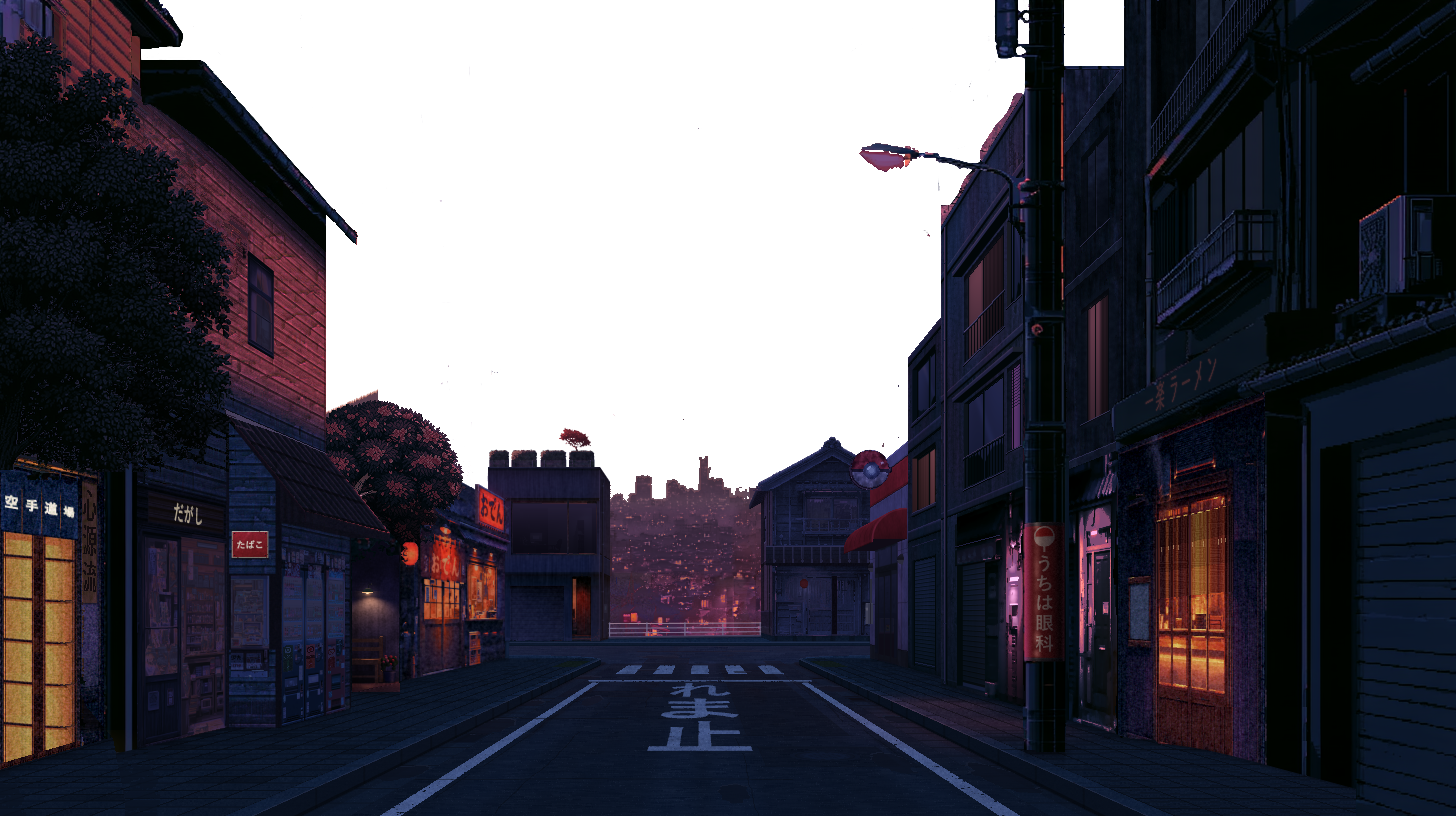
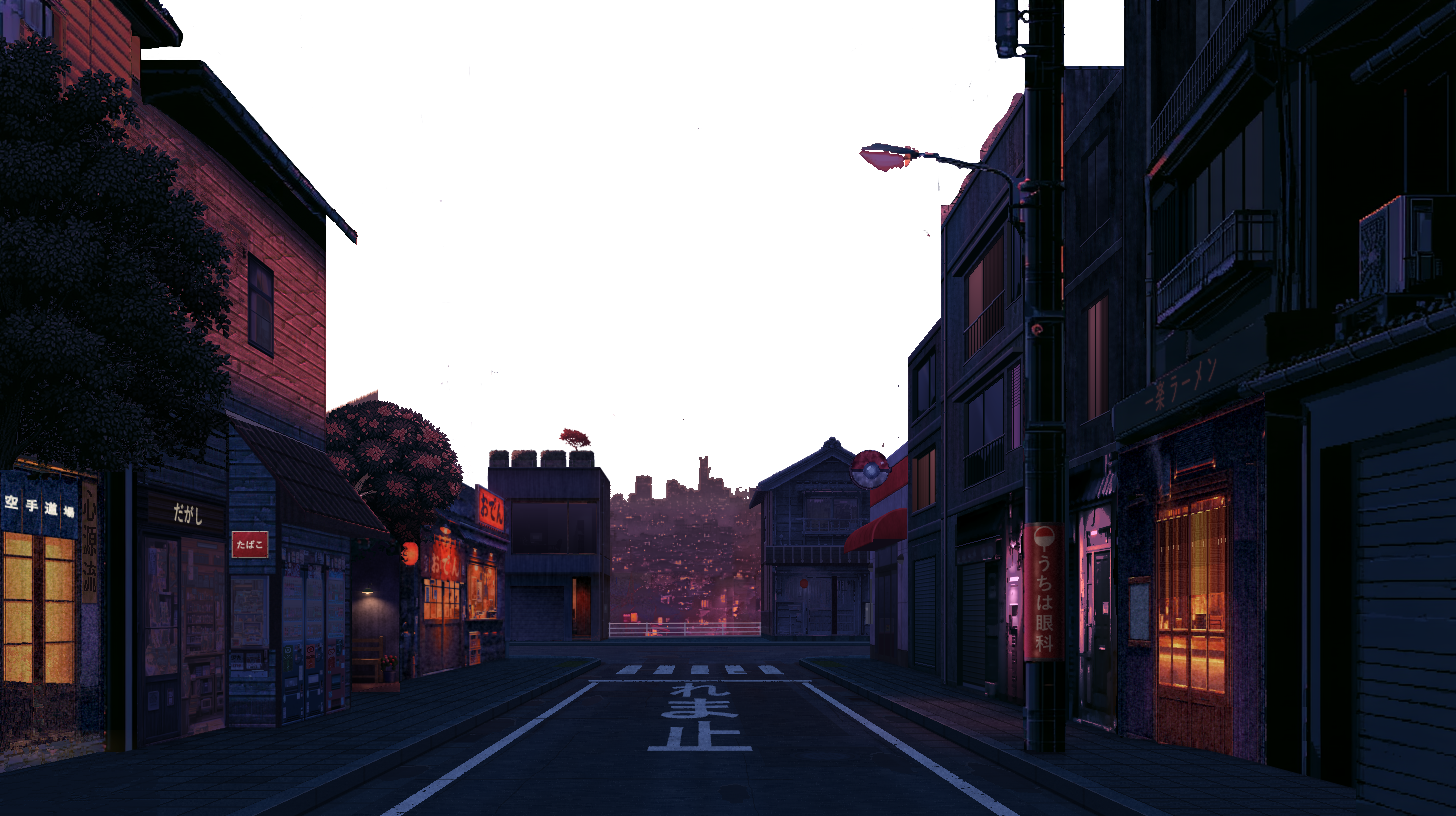
Dojo : seulement les feuilles de l'ancien buisson retirées, le reste tel que peint
Shoji refaits case par case le long de leurs traverses, qui se resserrent vers
la rue : bois et papier continus. Soubassement de pierre complété par
inpainting. Marche éclairée et trottoir recopiés plus loin dans la même rue, en
perspective vers le point de fuite du sol (646, 634) : joints longitudinaux sur
leurs lignes, joints transversaux à niveau. Leur lumière est accordée au
dégradé du trottoir autour. Le pied chaud de la porte reste tel que peint.

Changed region(s): [[0.0, 0.7047, 0.0927, 0.9498]]

diff --git a/tools/tree_bc.py b/tools/tree_bc.py
@@ -32,13 +32,15 @@ CROWN_ROWS = 700                                   # (the source's rows above th
 DEEP = (0, 50, 0.62)                                # its leaves further in: the crown again, moved (x, y), in shade
 BUSH_ROWS = 860                                    # (the source's rows below this: the bush at the trunk's foot, its wood left out)
 BUSHES = []                                        # (no bush: the pavement as clean as everywhere else)
-SHOJI_STEP, SILL = 42, 6                           # the shoji's rails, one under the other; their sill's height
-STILE = (35, 548)                                  # (the shoji's middle stile, dark wood: its left column, a clean row)
-BASE = lambda x: 733 + 0.29 * (126 - x)            # the front's foot on the pavement (to the vanishing point, as the pavement's lines)
+SHOJI_X1 = 78                                      # the shoji's right side; their rails (they close in toward the street), the
+RAILS = (lambda x: 554.6 + 0.085 * x, lambda x: 599.4 + 0.017 * x,         # last line their paper's foot
+         lambda x: 644.3 - 0.047 * x, lambda x: 681.5 + 0.03 * x)
+KERB_Y = lambda x: 816 - 0.38 * (x - 230)          # the pavement's kerb, its upper edge (below it the kerb stone)
+VPG = (646.0, 634.0)                               # the ground's vanishing point (the pavement's long joints run to it; its
+                                                   # cross joints are level)
+STEP = lambda x: VPG[1] + 100 * (VPG[0] - x) / 550  # the dojo's lit step, its upper edge (to the vanishing point)
+STEP_BOT = lambda x: VPG[1] + 118 * (VPG[0] - x) / 550   # and its lower edge, on the pavement
 FASCIA = lambda x: 455 + 0.23 * x                   # the dojo's top board, its upper edge (lit, under the crown)
-PAVE_X1, PAVE_SPLIT = 330, 778
-KERB = lambda y: 352 - (y - 770) * 2.75            # the pavement's kerb, its x along the bottom rows
-FOOT_SHADE, FOOT_W = 0.28, 10                    # the pavement's shade along a front's foot: how much, how wide
 VP = (669.0, 568.0)                                # the street's vanishing point (the side wall's planks run to it)
 OLD_CROWN = [(0, 70), (60, 72), (92, 98), (132, 108), (172, 148), (208, 198), (236, 248), (238, 312), (220, 362),
              (208, 410), (178, 440), (132, 462), (60, 472), (0, 472)]
@@ -103,6 +105,97 @@ def recolour(rgb, al, ref):
     cent, cols = np.array(cent), np.array(cols)
     out[al] = np.stack([np.interp(L2, cent, cols[:, ch]) for ch in range(3)], -1)
     return out
+
+
+def inpaint(layers, hole, allowed, guide, P=3, R=32):
+    """Fills hole in every layer, patch by patch (exemplar-based, Criminisi et al.): the fill front's pixel whose patch is
+    the most known and lies across the strongest structure first, from the patch of the painting (within R px, inside
+    allowed, wholly known at the start) that best matches its known pixels in guide; each filled pixel takes its source's
+    value in every layer."""
+    H, W = hole.shape; k = 2 * P + 1
+    E = P + 4 * R
+    pad = lambda a, v: np.pad(a, ((E, E), (E, E)) + ((0, 0),) * (a.ndim - 2), constant_values=v)
+    G = pad(guide.astype(float), 0); M = pad(hole.copy(), False); inside = pad(np.ones((H, W), bool), False)
+    ok = pad(allowed & ~hole, False)
+    srcc = ndi.uniform_filter((~ok).astype(float), size=k, mode='constant', cval=1) < 1e-6      # (sources: whole patches)
+    C = (~M).astype(float); src_y = np.full(M.shape, -1); src_x = np.full(M.shape, -1)
+    Lg = G[..., :3] @ [0.299, 0.587, 0.114]
+    while M.any():
+        front = M & ndi.binary_dilation(~M & inside)
+        if not front.any(): break
+        ys, xs = np.where(front)
+        conf = ndi.uniform_filter(C, size=k)[ys, xs]
+        Lf = np.where(M, ndi.uniform_filter(np.where(M, 0, Lg), 5) / np.maximum(ndi.uniform_filter((~M).astype(float), 5), 1e-3), Lg)
+        gx, gy = ndi.sobel(Lf, 1), ndi.sobel(Lf, 0); nx, ny = ndi.sobel(M.astype(float), 1), ndi.sobel(M.astype(float), 0)
+        nn = np.hypot(nx, ny) + 1e-6
+        data = np.abs(-gy[ys, xs] * nx[ys, xs] / nn[ys, xs] + gx[ys, xs] * ny[ys, xs] / nn[ys, xs]) / 255
+        i = int(np.argmax(conf * (data + 0.05))); py, px = ys[i], xs[i]
+        T = G[py - P:py + P + 1, px - P:px + P + 1]; Tk = ~M[py - P:py + P + 1, px - P:px + P + 1] & inside[py - P:py + P + 1, px - P:px + P + 1]
+        for Rr in (R, 2 * R, 4 * R):                                          # (no source near: look further)
+            win = G[py - Rr - P:py + Rr + P + 1, px - Rr - P:px + Rr + P + 1]
+            if win.shape[0] < 2 * Rr + k or win.shape[1] < 2 * Rr + k: break
+            sw = np.lib.stride_tricks.sliding_window_view(win, (k, k), axis=(0, 1))          # (2R+1, 2R+1, ch, k, k)
+            d = ((sw - T.transpose(2, 0, 1)[None, None]) ** 2 * Tk[None, None, None]).sum((2, 3, 4)) / max(Tk.sum(), 1)
+            dyy, dxx = np.mgrid[-Rr:Rr + 1, -Rr:Rr + 1]; d = d + 6.0 * np.hypot(dyy, dxx)
+            d[~srcc[py - Rr:py + Rr + 1, px - Rr:px + Rr + 1]] = np.inf
+            if np.isfinite(d).any(): break
+        if not np.isfinite(d).any(): M[py, px] = False; continue
+        j = int(np.argmin(d)); qy, qx = py - Rr + j // (2 * Rr + 1), px - Rr + j % (2 * Rr + 1)
+        fill = M[py - P:py + P + 1, px - P:px + P + 1] & inside[py - P:py + P + 1, px - P:px + P + 1]
+        oy, ox = np.where(fill)
+        G[py - P + oy, px - P + ox] = G[qy - P + oy, qx - P + ox]
+        sy0, sx0 = src_y[qy - P + oy, qx - P + ox], src_x[qy - P + oy, qx - P + ox]
+        src_y[py - P + oy, px - P + ox] = np.where(sy0 >= 0, sy0, qy - P + oy)
+        src_x[py - P + oy, px - P + ox] = np.where(sx0 >= 0, sx0, qx - P + ox)
+        C[py - P + oy, px - P + ox] = conf[i] if conf[i] > 0 else 0.01
+        M[py - P + oy, px - P + ox] = False
+    o = E; fy, fx = np.where(hole & (src_y[o:o + H, o:o + W] >= 0))
+    sy, sx = src_y[o + fy, o + fx] - o, src_x[o + fy, o + fx] - o
+    for L in layers: L[fy, fx] = L[sy, sx]
+
+
+def street_copy(out, cur, hole, ok, ring, steps, fit='local'):
+    """Fills hole from the same ground further along the street: p -> the vanishing point + (p - it) k, k = 1 / (1 + a (y -
+    its y)) (a step along the street, a in steps): its long joints stay on their lines, its cross joints level. The moves
+    whose copy best matches the fine detail (the joints) of ring first, each filling what it can from ok pixels. Then the
+    copy's light (in the street's two lit layers) matched to ring: 'local', to the painting right round each pixel;
+    'plane', by a gain varying linearly across it (the painting's own gradient), fitted on ring."""
+    H, W = hole.shape; vx, vy = VPG
+    hy, hx = np.where(hole); ry, rx = np.where(ring)
+    hp = cur[0][:, :, :3] - ndi.uniform_filter(cur[0][:, :, :3], size=(7, 7, 1))
+    def src(y, x, a):
+        k = 1 / (1 + a * (y - vy)); return np.round(vy + (y - vy) * k).astype(int), np.round(vx + (x - vx) * k).astype(int)
+    def valid(sy, sx):
+        v = (sy >= 0) & (sy < H) & (sx >= 0) & (sx < W); v[v] &= ok[sy[v], sx[v]]; return v
+    costs = []
+    for a in steps:
+        sy, sx = src(ry, rx, a); v = valid(sy, sx)
+        if v.sum() < 30: continue
+        costs.append((float(np.abs(hp[ry[v], rx[v]] - hp[sy[v], sx[v]]).mean()), a))
+    costs.sort()
+    left = np.ones(len(hy), bool); filled = np.zeros((H, W), bool)
+    for _, a in costs:
+        sy, sx = src(hy, hx, a); v = left & valid(sy, sx)
+        for L, O in zip(out, cur): L[hy[v], hx[v]] = O[sy[v], sx[v]]
+        filled[hy[v], hx[v]] = True; left &= ~v
+        if not left.any(): break
+    hole &= ~filled
+    fy, fx = np.where(filled)
+    for li, L in enumerate(out[:2]):
+        for ch in range(3):
+            if fit == 'plane':                                                # (the copy at ring's places, by the best move)
+                sy, sx = src(ry, rx, costs[0][1]); v = valid(sy, sx)
+                lo_o = ndi.uniform_filter(cur[li][:, :, ch], 5)[ry[v], rx[v]]; lo_c = ndi.uniform_filter(cur[li][:, :, ch], 5)[sy[v], sx[v]]
+                A_ = np.stack([np.ones(v.sum()), rx[v], ry[v]], 1)
+                cf = np.linalg.lstsq(A_ * lo_c[:, None], lo_o, rcond=None)[0]
+                g = cf[0] + cf[1] * fx + cf[2] * fy
+            else:
+                seen = ring
+                w0 = ndi.gaussian_filter(seen.astype(float), 5); w1 = ndi.gaussian_filter(filled.astype(float), 5)
+                m0 = ndi.gaussian_filter(np.where(seen, L[:, :, ch], 0), 5) / np.maximum(w0, 1e-6)
+                m1 = ndi.gaussian_filter(np.where(filled, L[:, :, ch], 0), 5) / np.maximum(w1, 1e-6)
+                g = np.where(w0 > 0.02, (m0 + 2) / (m1 + 2), 1)[fy, fx]
+            L[fy, fx, ch] = np.clip(L[fy, fx, ch] * np.clip(g, 0.6, 1.6), 0, 255)
 
 
 def main():
@@ -183,38 +276,71 @@ def main():
             if clean[sy, sx]:
                 for L, O in zip(out, cur): L[y, x] = O[sy, sx]
                 break
-    # the shoji, down to their sill, from their cell above (the same column, one, two or three rails up); their sill, the
-    # same wood as their head rail; the stone pillar, the dark gap and the door's frame right of them, from their own
-    # column above; the pavement under the front's foot, along its own lines (to the vanishing point) from its clean part
-    base = np.round(BASE(xx)).astype(int)
-    need_b = bush_old & (yy < base - SILL) & (xx < 80)
-    for y, x in zip(*np.where(need_b)):
-        for k in range(1, 6):
-            sy = y - SHOJI_STEP * k
-            if sy < 540: break
-            if not bush_old[sy, x]:
-                for L, O in zip(out, cur): L[y, x] = O[sy, x]
-                break
-    sill = bush_old & (yy >= base - SILL) & (yy < base) & (xx < 80)
-    for y, x in zip(*np.where(sill)):                                         # (their sill: the wood of their middle stile, laid
-        r = y - (base[y, x] - SILL)                                           # down: its grain along the sill)
-        for L, O in zip(out, cur): L[y, x] = O[STILE[1] + (x * 3) % 38, STILE[0] + r]
-    side = bush_old & (yy < base) & (xx >= 80)
-    for y, x in zip(*np.where(side)):                                         # (the pillar, the gap, the door's frame: their own
-        for k in range(1, 8):                                                 # column a cell or two above, its grain with it)
-            sy = y - SHOJI_STEP * k
-            if sy < 540: break
-            if not bush_old[sy, x]:
-                for L, O in zip(out, cur): L[y, x] = O[sy, x]
-                break
-    # (in the shade low down as the painting has it beside them: each row as light as its painted pixels there)
-    for y in np.unique(np.where(side)[0]):
-        row = side[y] ; kept = ~bush_old[y] & (xx[y] >= 80) & (xx[y] < 112)
-        if kept.sum() >= 3 and row.sum():
-            g = np.median(cur[0][y, kept, :3] @ [0.299, 0.587, 0.114]) / max(np.median(out[0][y, row, :3] @ [0.299, 0.587, 0.114]), 1)
-            g = min(g, 1.0)
-            for L in out[:2]: L[y, row, :3] *= g
-    need_b |= sill | side
+    # the old bush: only its leaves go, the dojo's front, its step and the pavement under them stay as painted. Under the
+    # shoji (their foot at y 690), the front's stone foot, then the lit stone step (a light band ~17 px, toward the vanishing
+    # point), then the pavement. Its leaves: on the front, dark and green (no blue as the stone's specks, no orange as the
+    # paper, no red as the wood), in blobs of 5 px or more; on the step, anything dark; on the pavement, darker than any of
+    # its own pixels; with their soft edges; not the dark gap by the door nor its frame. The red thing half hidden at the
+    # front's foot goes with them (half of it made no sense)
+    r_, g_, b_ = city[:, :, 0], city[:, :, 1], city[:, :, 2]
+    reg = (yy >= 592) & (xx < 126) & ~((xx >= 100) & (yy < 752))              # (the door's dark gap and its warm foot: as painted)
+    top, bot = STEP(xx), STEP_BOT(xx)
+    foot = RAILS[3](xx)
+    kick = (yy >= foot) & (yy < top) & (xx < 100)
+    band = (yy >= top) & (yy < bot) & (xx < 100)                              # (right of it, the door's dark gap: as painted)
+    pave = (yy >= bot) & ~((xx >= 100) & (yy < 752))
+    seed = reg & ~band & ~pave & (g_ >= b_ - 3) & (((g_ >= r_ - 6) & (Lc < 22)) | ((g_ >= r_ + 4) & (Lc < 45)))
+    lab, n = ndi.label(seed, structure=np.ones((3, 3)))
+    seed &= np.isin(lab, 1 + np.where(ndi.sum(seed, lab, range(1, n + 1)) >= 5)[0])
+    seed |= reg & band & (Lc < 25)
+    seed |= reg & pave & ((Lc < 11) | ((Lc < 16) & (b_ - g_ < 5)) | ((r_ > g_ + 6) & (xx < 100)))   # (and the red thing's reflection)
+    seed |= reg & kick & (xx < 60) & (r_ > 80) & (r_ > g_ + 40)
+    around = ndi.uniform_filter(np.where(seed, 0, Lc), 7) / np.maximum(ndi.uniform_filter((~seed).astype(float), 7), 1e-3)
+    leaves = seed | (ndi.binary_dilation(seed, structure=np.ones((3, 3))) & reg & ~band & (Lc < around - 6))
+    # the shoji: each pixel's place in its cell (between two rails), the same place in the other cells, the nearest first
+    R_ = [np.asarray(f(xx), float) for f in RAILS]
+    shoji_z = (yy >= R_[0]) & (yy < R_[3]) & (xx < SHOJI_X1)
+    cell = np.where(yy < R_[1], 0, np.where(yy < R_[2], 1, 2))
+    pick = lambda Rk, i: np.take_along_axis(np.stack(Rk), i[None], 0)[0]
+    lo, hi = pick(R_, cell), pick(R_, cell + 1); f = (yy - lo) / (hi - lo)
+    cands = []
+    for d in (-1, 1, -2, 2):
+        j = cell + d; okj = (j >= 0) & (j <= 2); jj = np.clip(j, 0, 2)
+        sy = np.clip(np.round(pick(R_, jj) + f * (pick(R_, jj + 1) - pick(R_, jj))).astype(int), 0, H - 1)
+        cands.append((okj & shoji_z, sy))
+    def first_clean(mask):
+        src = np.full((H, W), -1)
+        for okj, sy in cands[::-1]:
+            good = okj & ~mask[sy, xx]; src = np.where(good, sy, src)
+        return src
+    src0 = first_clean(leaves)
+    refL = np.where(src0 >= 0, Lc[np.maximum(src0, 0), xx], np.nan)        # (on the paper: what is darker than the same place
+    near = ndi.binary_dilation(leaves, iterations=3)                         # in a clean cell, near the leaves or much darker)
+    leaves |= shoji_z & reg & (((Lc < np.nan_to_num(refL, nan=0) - 20) & near) | (Lc < np.nan_to_num(refL, nan=0) - 30))
+    need_b = leaves.copy(); hole = leaves.copy()
+    if os.environ.get('LEAVES'): np.save(os.environ['LEAVES'], leaves)
+    src = first_clean(leaves)
+    for y, x in zip(*np.where(leaves & shoji_z & (src >= 0))):
+        for L, O in zip(out, cur): L[y, x] = O[src[y, x], x]
+        hole[y, x] = False
+    # the stone foot, the step and the pavement: each patch by patch from its own painting round it (exemplar inpainting),
+    # the same source in every layer
+    gd = lambda: np.concatenate([out[0][:, :, :3], out[1][:, :, :3]], -1)
+    inpaint(out, hole & kick, kick, guide=gd())
+    # the step and the pavement: the same step, the same pavement further down the street (each pixel along its line to the
+    # vanishing point, scaled as the depth: the long joints stay on their lines, the cross joints level), the moves that
+    # best line up with what shows between the leaves first; then their light matched to the painting round them
+    street_copy(out, cur, hole & band, band & ~leaves, band & ~leaves, np.r_[np.linspace(-0.004, -0.0002, 40), np.linspace(0.0002, 0.012, 120)])
+    if (hole & band).any(): inpaint(out, hole & band, band, guide=gd())
+    # (the pavement where the bush stood, all of it: what showed of it was in the bush's shade)
+    pv = (poly(OLD_BUSH, H, W) & pave) | (leaves & pave)
+    pv_ok = pave & ~pv & (yy < KERB_Y(xx)) & ~((xx >= 124) & (xx <= 133))
+    ring = ndi.binary_dilation(pv, iterations=8) & pv_ok
+    hole |= pv; need_b |= pv
+    street_copy(out, cur, hole & pv, pv_ok, ring, np.linspace(0.0005, 0.012, 240), fit='plane')
+    if (hole & pv).any(): inpaint(out, hole & pv, pave & (xx < 300), guide=gd())
+    rest = hole & ~kick & ~pave & ~band
+    if rest.any(): inpaint(out, rest, reg, guide=gd())
     # the dojo's top board under the crown (its lit edges between the old leaves): along its own lines, from its visible bits
     band = crown_old & (xx < 130) & (yy > FASCIA(xx) - 6) & (yy < 476) & ~cm & ~dm & ~fill
     seen = band & (Lc >= 20)
@@ -229,37 +355,6 @@ def main():
             else: continue
             break
 
-    # the pavement: one piece of the clean pavement beside it, moved as a whole (its grain and its lines as they are), the
-    # move chosen so that it meets the pavement round it with the least difference; darker at the front's foot, as the
-    # pavement is along the shop's front next to it
-    need_g = bush_old & (yy >= base)
-    paved = ((yy >= 748) | ((yy >= 736) & (xx >= 140))) & ~bush_old & (xx >= 133) & (xx < KERB(yy) - 5)   # (not the door's white
-                                                                              # stile, x 125..132, nor the kerb)
-    ring = ndi.binary_dilation(need_g, iterations=5) & ~need_g & ~bush_old & (yy >= np.maximum(base + 2, 748))   # (the pavement round it)
-    moves = []
-    for band, dys in (((0, PAVE_SPLIT), range(-5, 1)), ((PAVE_SPLIT, H), range(-34, -9))):   # (two pieces: the pavement narrows
-        part_ = need_g & (yy >= band[0]) & (yy < band[1])                                # toward the kerb low down)
-        ty, tx = np.where(part_)
-        rg = ring & (yy >= band[0] - 2) & (yy < band[1]); ry, rx = np.where(rg)
-        over = (yy >= band[0] - 3) & (yy < band[0]) & need_g if band[0] else np.zeros((H, W), bool); oy, ox = np.where(over)
-        best = None
-        for dy in dys:
-            for dx in range(16, 300):
-                sy, sx = ty + dy, tx + dx
-                if sx.max() >= PAVE_X1 or not paved[sy, sx].all(): continue
-                ssy, ssx = ry + dy, rx + dx
-                if len(ssy) and (ssx.max() >= PAVE_X1 or not paved[ssy, ssx].all()): continue
-                cost = float(np.abs(cur[0][ssy, ssx, :3] - cur[0][ry, rx, :3]).sum())
-                if len(oy):                                                   # (and where it meets the piece above)
-                    if not paved[oy + dy, np.minimum(ox + dx, W - 1)].all(): continue
-                    cost += float(np.abs(cur[0][oy + dy, ox + dx, :3] - out[0][oy, ox, :3]).sum())
-                if best is None or cost < best[0]: best = (cost, dy, dx)
-        _, dy, dx = best; moves.append((dx, dy))
-        for L, O in zip(out, cur): L[ty, tx] = O[ty + dy, tx + dx]
-    ty, tx = np.where(need_g)
-    foot = (1 - FOOT_SHADE * np.clip(1 - (yy - base) / FOOT_W, 0, 1))[..., None]
-    for L in out[:2]: L[ty, tx, :3] = L[ty, tx, :3] * foot[ty, tx]           # (the shade: in the street's colours, lit or not)
-    print('pavement moved by', moves)
     city, unlit, nf, sun = out
 
     # the power cut: the old tree's own change there, by place
@@ -278,12 +373,12 @@ def main():
             if cm[y, sx] or dm[y, sx]:
                 for L in out: L[y, x] = L[y, sx]
                 break
-    left = old_all & ~cm & ~dm & ~bm & ~fm & ~(need | need_b | need_g | need_f | seen) & ~(xx < 4) & ~(wall & lit)
+    left = crown_old & ~cm & ~dm & ~bm & ~fm & ~(need | need_f | seen) & ~(xx < 4) & ~(wall & lit)
     if os.environ.get('LEFT'): np.save(os.environ['LEFT'], left)
     save(city, 'layer_city_off.webp', 'RGBA'); save(unlit, 'street_unlit.webp', 'RGBA')
     save(nf, 'night_far.webp', 'RGB'); save(sun, 'street_sun.webp', 'RGB')
     print('crown', int(cm.sum()), '| behind it', int(dm.sum()), '| bush', int(bm.sum()), '| wall rebuilt', int(need.sum()),
-          '| shoji rebuilt', int(need_b.sum()), '| pavement', int(need_g.sum()), '| old pixels left as they were', int(left.sum()))
+          '| the bush\'s leaves out', int(need_b.sum()), '| old pixels left as they were', int(left.sum()))
 
 
 if __name__ == '__main__':
